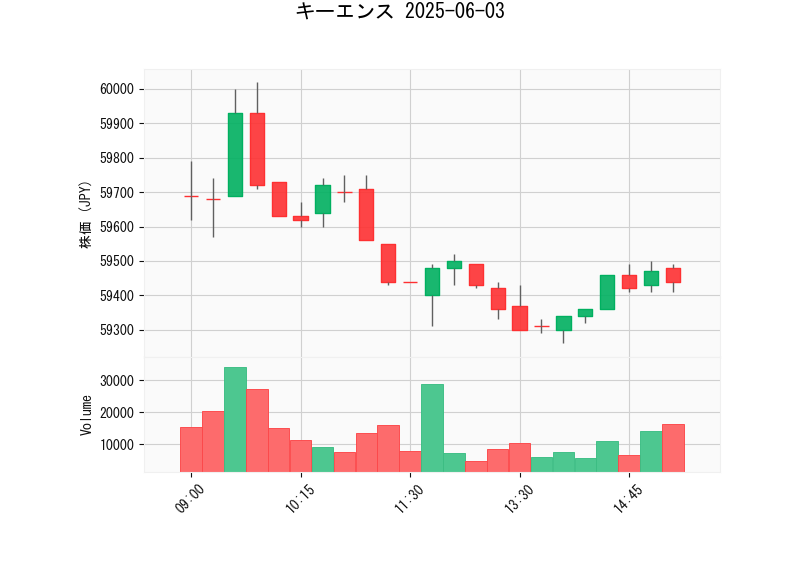
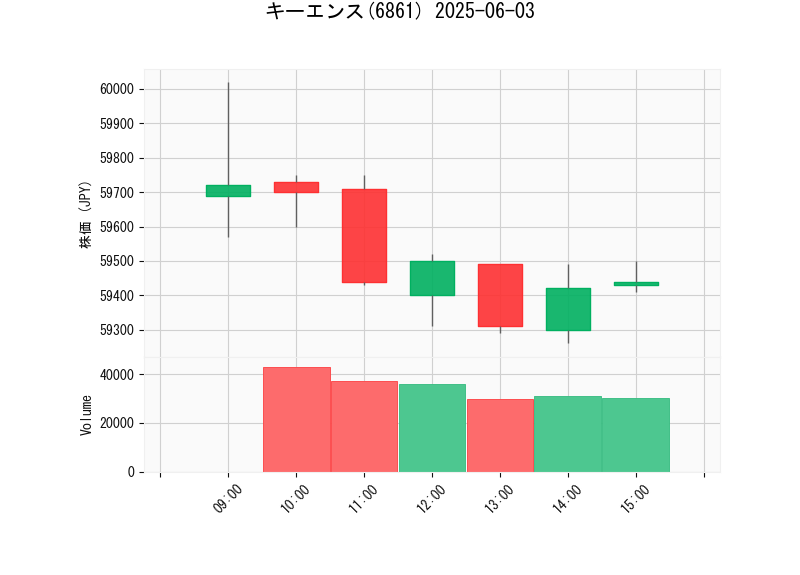
複数銘柄に対応！

diff --git a/test/yfinance_multi_example.py b/test/yfinance_multi_example.py
@@ -1,0 +1,78 @@
+# 株価取得テストコード
+# いったん日本株のみで 米国株入れると市場の時間帯が違うのでうまく取得できない
+
+import sys
+import yfinance as yf
+import mplfinance as mpf
+import datetime
+import matplotlib.pyplot as plt
+
+sys.stdout.reconfigure(encoding='utf-8')
+plt.rcParams['font.family'] = 'MS Gothic'
+
+# 銘柄
+ticker_symbol = ["6861.T", "2593.T", "4063.T", "9432.T"]
+ticker_name = ["キーエンス", "伊藤園", "信越化学工業", "NTT"]
+today = datetime.date.today()
+
+
+
+style = mpf.make_mpf_style(
+    base_mpf_style='yahoo',
+    rc={"font.family": plt.rcParams["font.family"][0]},
+    y_on_right=False,
+)
+
+for symbol, name in zip(ticker_symbol, ticker_name):
+    # Yahoo FinanceのTickerオブジェクトを作成
+    ticker = yf.Ticker(symbol)
+
+    print(f"--- 銘柄: {symbol} ({name}) の情報 ---")
+
+    # 現在の株価情報を取得
+    try:
+        current_data = ticker.info
+        if 'currentPrice' in current_data:
+            print(f"現在の株価: {current_data.get('currentPrice')} {current_data.get('currency')}")
+        else:
+            print("現在の株価情報は利用できません。")
+        # print(f"市場名: {current_data.get('fullExchangeName')}")
+        # print(f"業種: {current_data.get('industry')}")
+        # print(f"ウェブサイト: {current_data.get('website')}")
+    except Exception as e:
+        print(f"現在の株価情報の取得中にエラーが発生しました: {e}")
+
+    print("\n--- 過去の株価データ ---")
+    # 過去の株価データを取得 (periodとintervalを指定)
+    # interval は '1m', '2m', '5m', '15m', '30m', '60m', '90m', '1h', '1d', '5d', '1wk', '1mo', '3mo' など
+    # period は '1d', '5d', '1mo', '3mo', '6mo', '1y', '2y', '5y', '10y', 'ytd', 'max' など
+    try:
+        start_date = "2025-06-03"
+        end_date = "2025-06-04" 
+
+        hist = ticker.history(start=start_date, end=end_date, interval="1h")
+
+        if not hist.empty:
+            print(hist)
+            mpf.plot(
+                hist,
+                type='candle',
+                volume=True,
+                title=f"{name}({symbol.rstrip(".T")}) {start_date}",
+                style=style,
+                savefig=f'images/{symbol.strip(".T")}.png',
+                ylabel='株価 (JPY)',
+            )
+        else:
+            print("指定された期間とインターバルで株価データが見つかりませんでした。")
+            print("市場の開場時間やインターバル設定が正しいか確認してください。")
+
+    except Exception as e:
+        print(f"過去の株価データの取得中にエラーが発生しました: {e}")
+
+# print("\n--- その他の情報 ---")
+# try:
+#     print("配当:")
+#     print(ticker.dividends.tail()) # 最新の配当
+# except Exception as e:
+#     print(f"配当情報の取得中にエラーが発生しました: {e}")

diff --git a/test/line_bot_send_message.go b/test/line_bot_send_message.go
@@ -41,7 +41,7 @@ func main() {
 	}
 
 	LINE_USER_ID := os.Getenv("LINE_USER_ID")
-	log.Printf("LINE_USER_ID: %s", LINE_USER_ID) // デバッグログを追加
+	// log.Printf("LINE_USER_ID: %s", LINE_USER_ID) // デバッグログ
 
 	pushMessage := &messaging_api.PushMessageRequest{
 		To: LINE_USER_ID,

diff --git a/memo.md b/memo.md
@@ -28,8 +28,10 @@ testではImgurを使用
 ngrokでローカルサーバ公開バージョンやりたかったけど無料だと実行できるセッション1つまでだった
 
 
+### プッシュメッセージについて
 envファイルからuser idを利用しようとすると
 go run test/line_bot_send_message.go
 2025/06/26 20:47:07 unexpected status code: 400, {"message":"The request body has 1 error(s)","details":[{"message":"May not be empty","property":"to"}]}
-と言われる
+と言われる  
 →godotenvパッケージを利用で解決
+https://zenn.dev/a_ichi1/articles/c9f3870350c5e2
